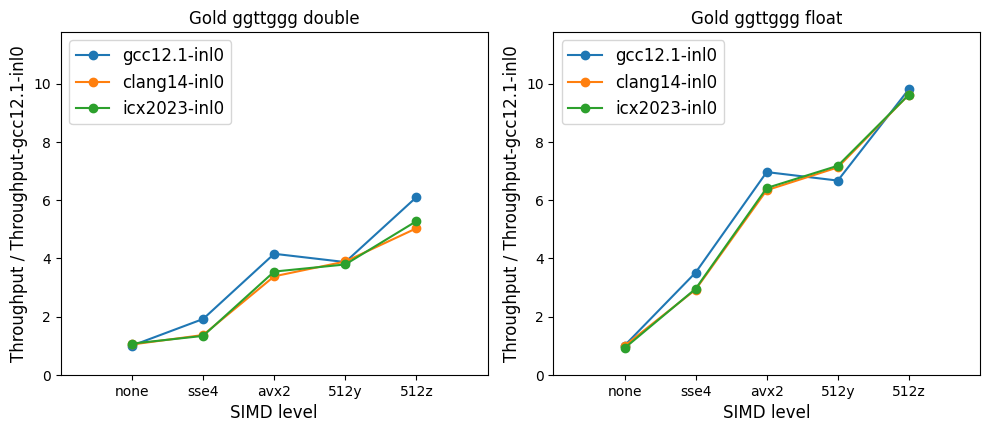
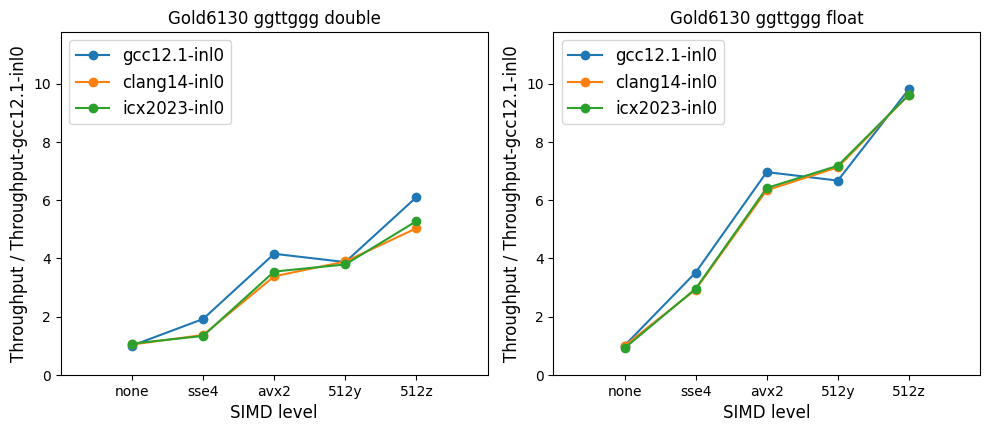
[icx] ** COMPLETE ICX ** use Gold6130 and Silver4216 in plot titles

Changed region(s): [[0.6673, 0.0, 0.8797, 0.0602], [0.1517, 0.0, 0.3943, 0.0602]]

diff --git a/epochX/cudacpp/tput/plots.py b/epochX/cudacpp/tput/plots.py
@@ -109,7 +109,7 @@ def axesOneProc( ax, tputs, fptype='d', proc='ggttgg', tputabs=True ):
     ax.legend( loc=loc, fontsize=plots_legendsize )
     ax.set_xticks( xvals, avxs )
     # Prepare axis labels and title
-    ax.set_title( '%s %s %s'%( metal, proc, fptypeDesc( fptype ) ) )
+    ax.set_title( '%s %s %s'%( 'Gold6130' if metal == 'Gold' else 'Silver4216', proc, fptypeDesc( fptype ) ) )
     ax.set_xlabel('SIMD level', size=plots_labelsize )
     if tputabs : ax.set_ylabel('Throughput (E6 events per second)', size=plots_labelsize )
     else : ax.set_ylabel('Throughput / Throughput-%s'%desc0, size=plots_labelsize )
@@ -150,7 +150,7 @@ if __name__ == '__main__':
     ###loadOneTableFile( 'ol23gold', debug=True )
 
     # Production plots
-    #figOneProc( loadOneTableFile( 'ol23silv' ), 'ggttgg' )
-    #figOneProc( loadOneTableFile( 'ol23gold' ), 'ggttgg' )
+    figOneProc( loadOneTableFile( 'ol23silv' ), 'ggttgg' )
+    figOneProc( loadOneTableFile( 'ol23gold' ), 'ggttgg' )
     figOneProc( loadOneTableFile( 'ol23silv' ), 'ggttggg' )
     figOneProc( loadOneTableFile( 'ol23gold' ), 'ggttggg' )
